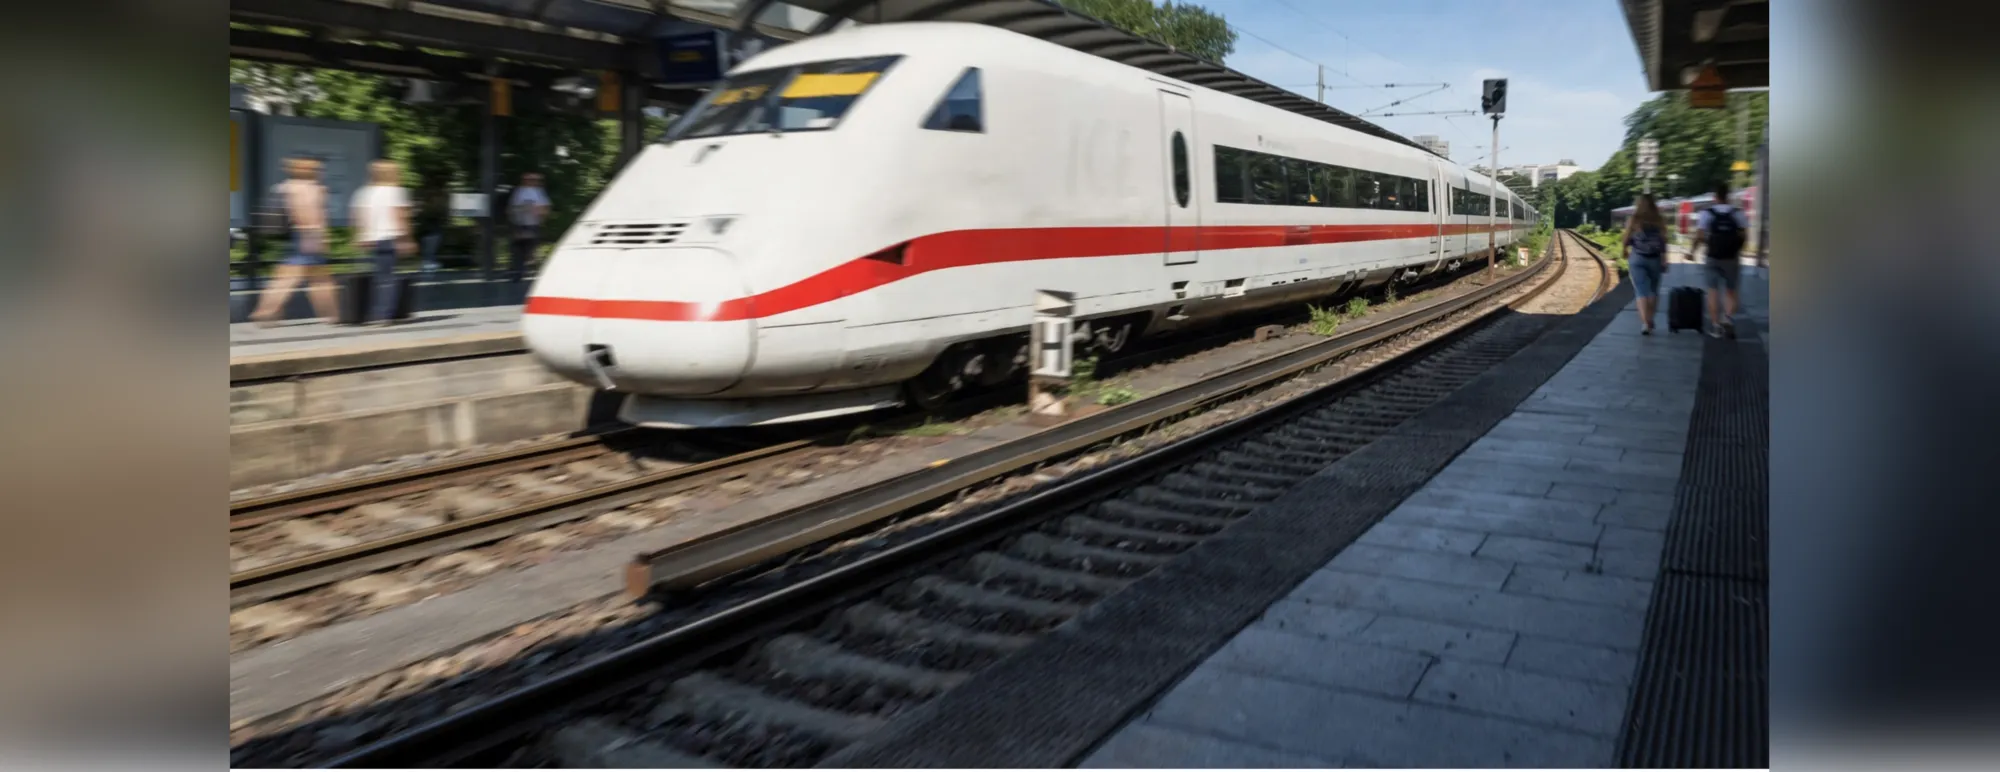
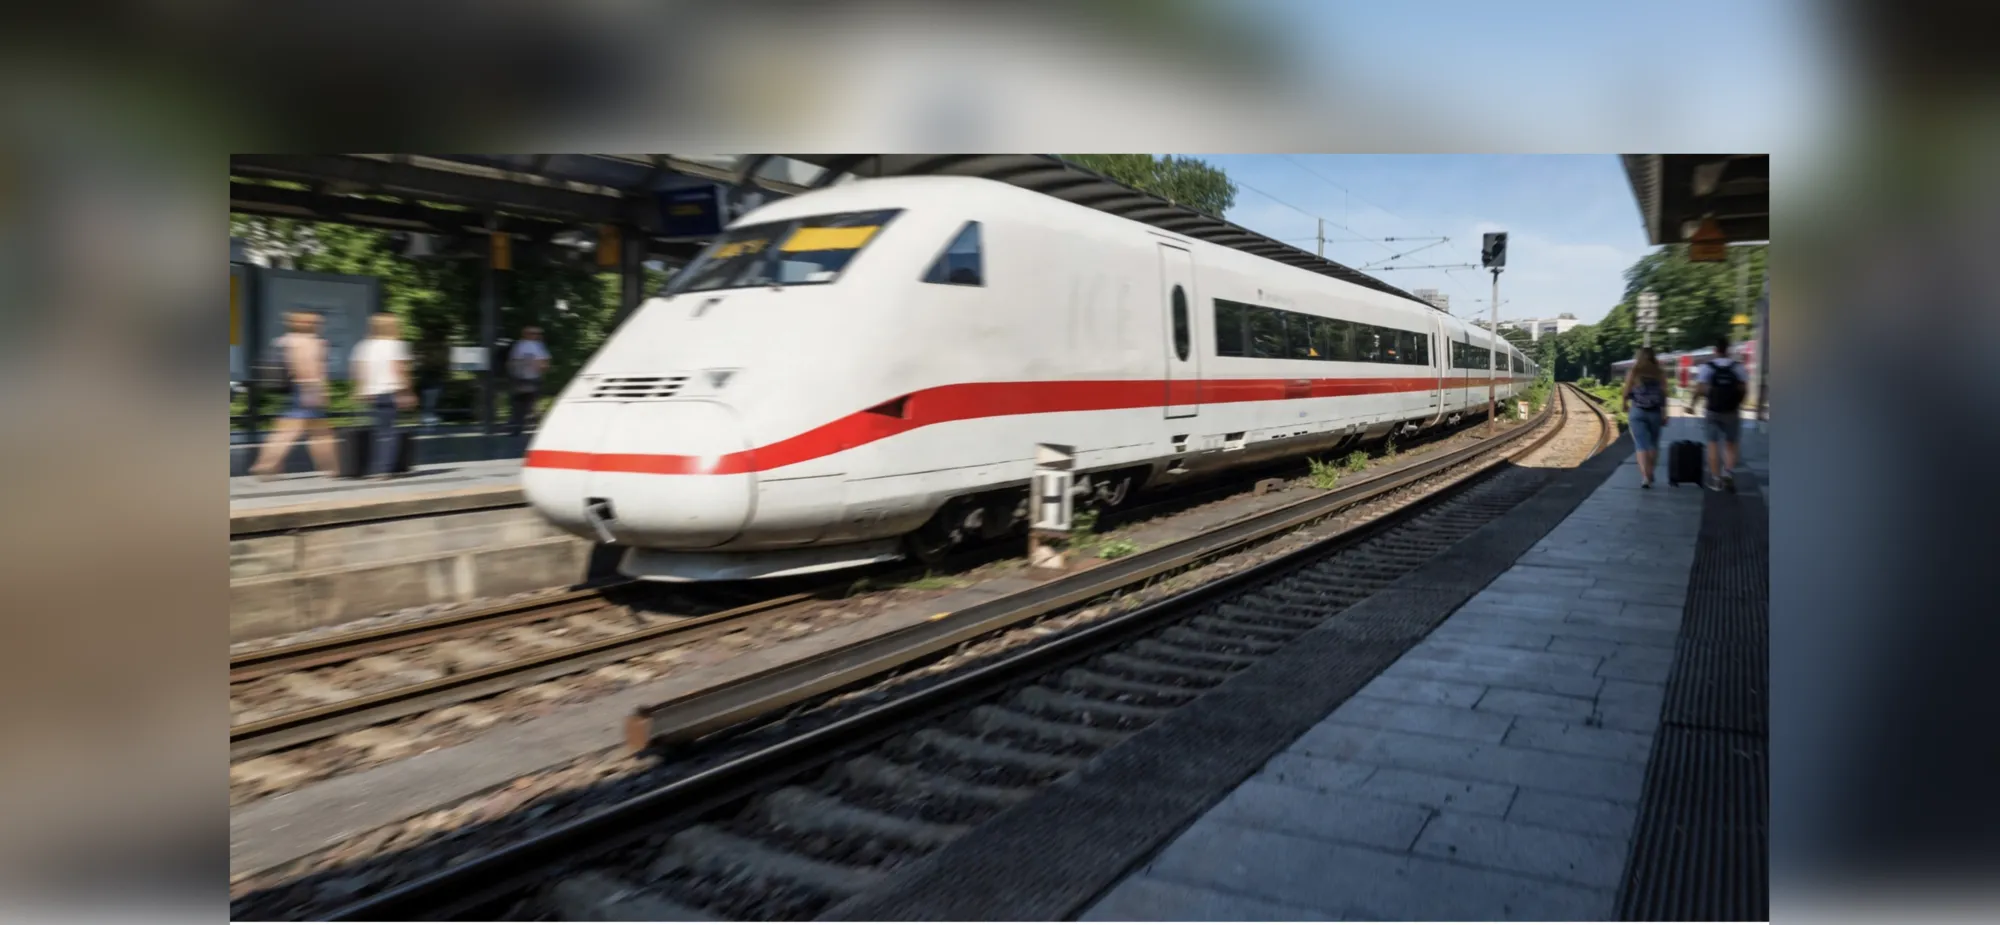
style(home): foto de Europa más abajo, se ven techo y trompa

diff --git a/assets/css/home-redesign.css b/assets/css/home-redesign.css
@@ -870,7 +870,7 @@ body.home-v2 .search-card .ai-search-icon { color: #3d4152; }
 /* Portadas v3 con barrido (09-nov-2026): una foto por modo + desplazamiento lento */
 @keyframes heroSweep { from { background-position: 0% 50%, 0 0, 42% 50%; } to { background-position: 0% 50%, 0 0, 58% 50%; } }
 html body.home-v2 .hero-title-card::before {
-  background-image: linear-gradient(180deg, rgba(10,12,14,.5) 0%, rgba(10,12,14,.16) 55%, rgba(10,12,14,.34) 100%), linear-gradient(transparent, transparent), url('/assets/img/hero/home-v3-eu-2000.webp?v=3') !important;
+  background-image: linear-gradient(180deg, rgba(10,12,14,.5) 0%, rgba(10,12,14,.16) 55%, rgba(10,12,14,.34) 100%), linear-gradient(transparent, transparent), url('/assets/img/hero/home-v3-eu-2000.webp?v=4') !important;
   background-size: cover, cover, 115% auto !important; background-repeat: no-repeat !important;
   animation: heroSweep 22s ease-in-out infinite alternate;
 }
@@ -883,7 +883,7 @@ html body.home-v2.hotels-mode .hero-title-card::before {
 }
 html body.home-v2.hotels-mode .hotel-mosaic { display: none !important; }
 @media (max-width: 760px) {
-  html body.home-v2 .hero-title-card::before { background-image: linear-gradient(180deg, rgba(10,12,14,.5), rgba(10,12,14,.3)), linear-gradient(transparent, transparent), url('/assets/img/hero/home-v3-eu-1000.webp?v=3') !important; background-size: cover, cover, auto 100% !important; }
+  html body.home-v2 .hero-title-card::before { background-image: linear-gradient(180deg, rgba(10,12,14,.5), rgba(10,12,14,.3)), linear-gradient(transparent, transparent), url('/assets/img/hero/home-v3-eu-1000.webp?v=4') !important; background-size: cover, cover, auto 100% !important; }
   html body.home-v2[data-region="japan"] .hero-title-card::before { background-image: linear-gradient(180deg, rgba(10,12,14,.5), rgba(10,12,14,.3)), linear-gradient(transparent, transparent), url('/assets/img/hero/home-v3-jp-1000.webp') !important; }
   html body.home-v2.hotels-mode .hero-title-card::before { background-image: linear-gradient(180deg, rgba(10,12,14,.5), rgba(10,12,14,.3)), linear-gradient(transparent, transparent), url('/assets/img/hero/home-v3-hotel-1000.webp?v=2') !important; }
 }
@@ -938,3 +938,4 @@ html body.home-v2.hotels-mode .hero-title-card::before { background-size: cover,
 html body.home-v2:not(.hotels-mode):not([data-region="japan"]) .hero-title-card::before { --hy: 20%; }
 
 html body.home-v2:not(.hotels-mode):not([data-region="japan"]) .hero-title-card::before { --hy: 50%; background-size: cover, cover, cover !important; animation: none !important; background-position: 0 0, 0 0, 50% 50% !important; }
+html body.home-v2:not(.hotels-mode):not([data-region="japan"]) .hero-title-card::before { background-position: 0 0, 0 0, 50% 0% !important; }

diff --git a/es/index.html b/es/index.html
@@ -40,7 +40,7 @@
   <link rel="stylesheet" href="/assets/css/main.min.css" />
   <link rel="preload" as="image" href="/assets/img/hero/home-tren-1000.webp" media="(max-width: 760px)" fetchpriority="high" />
   <link rel="preload" as="image" href="/assets/img/hero/home-tren-2000.webp" media="(min-width: 761px)" fetchpriority="high" />
-  <link rel="stylesheet" href="/assets/css/home-redesign.css?v=80" />
+  <link rel="stylesheet" href="/assets/css/home-redesign.css?v=81" />
   <!-- Una sola familia (IBM Plex): Poppins se pedía y no está en el CSS.
        3 pesos, display=swap. media=print + onload para no bloquear el primer paint
        en 3G; el sistema tipográfico pinta el H1 al toque. -->

diff --git a/fr/index.html b/fr/index.html
@@ -40,7 +40,7 @@
   <link rel="stylesheet" href="/assets/css/main.min.css" />
   <link rel="preload" as="image" href="/assets/img/hero/home-tren-1000.webp" media="(max-width: 760px)" fetchpriority="high" />
   <link rel="preload" as="image" href="/assets/img/hero/home-tren-2000.webp" media="(min-width: 761px)" fetchpriority="high" />
-  <link rel="stylesheet" href="/assets/css/home-redesign.css?v=80" />
+  <link rel="stylesheet" href="/assets/css/home-redesign.css?v=81" />
   <!-- Una sola familia (IBM Plex): Poppins se pedía y no está en el CSS.
        3 pesos, display=swap. media=print + onload para no bloquear el primer paint
        en 3G; el sistema tipográfico pinta el H1 al toque. -->

diff --git a/index.html b/index.html
@@ -40,7 +40,7 @@
   <link rel="stylesheet" href="/assets/css/main.min.css" />
   <link rel="preload" as="image" href="/assets/img/hero/home-tren-1000.webp" media="(max-width: 760px)" fetchpriority="high" />
   <link rel="preload" as="image" href="/assets/img/hero/home-tren-2000.webp" media="(min-width: 761px)" fetchpriority="high" />
-  <link rel="stylesheet" href="/assets/css/home-redesign.css?v=80" />
+  <link rel="stylesheet" href="/assets/css/home-redesign.css?v=81" />
   <!-- Una sola familia (IBM Plex): Poppins se pedía y no está en el CSS.
        3 pesos, display=swap. media=print + onload para no bloquear el primer paint
        en 3G; el sistema tipográfico pinta el H1 al toque. -->

diff --git a/it/index.html b/it/index.html
@@ -40,7 +40,7 @@
   <link rel="stylesheet" href="/assets/css/main.min.css" />
   <link rel="preload" as="image" href="/assets/img/hero/home-tren-1000.webp" media="(max-width: 760px)" fetchpriority="high" />
   <link rel="preload" as="image" href="/assets/img/hero/home-tren-2000.webp" media="(min-width: 761px)" fetchpriority="high" />
-  <link rel="stylesheet" href="/assets/css/home-redesign.css?v=80" />
+  <link rel="stylesheet" href="/assets/css/home-redesign.css?v=81" />
   <!-- Una sola familia (IBM Plex): Poppins se pedía y no está en el CSS.
        3 pesos, display=swap. media=print + onload para no bloquear el primer paint
        en 3G; el sistema tipográfico pinta el H1 al toque. -->

diff --git a/ja/index.html b/ja/index.html
@@ -40,7 +40,7 @@
   <link rel="stylesheet" href="/assets/css/main.min.css" />
   <link rel="preload" as="image" href="/assets/img/hero/home-tren-1000.webp" media="(max-width: 760px)" fetchpriority="high" />
   <link rel="preload" as="image" href="/assets/img/hero/home-tren-2000.webp" media="(min-width: 761px)" fetchpriority="high" />
-  <link rel="stylesheet" href="/assets/css/home-redesign.css?v=80" />
+  <link rel="stylesheet" href="/assets/css/home-redesign.css?v=81" />
   <!-- Una sola familia (IBM Plex): Poppins se pedía y no está en el CSS.
        3 pesos, display=swap. media=print + onload para no bloquear el primer paint
        en 3G; el sistema tipográfico pinta el H1 al toque. -->
